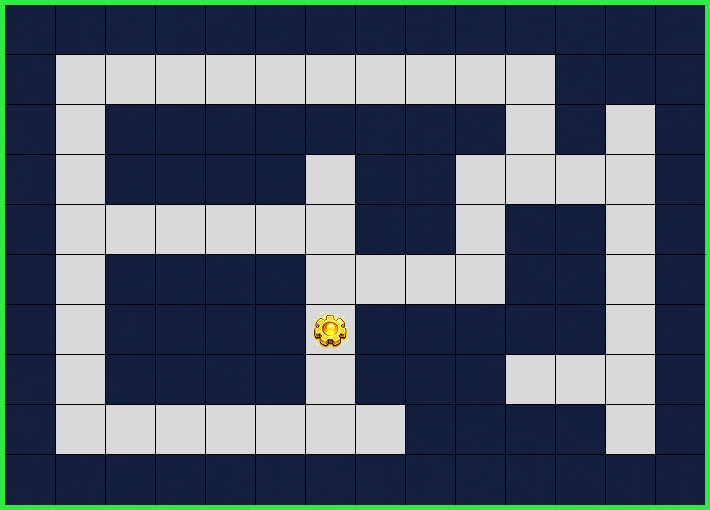
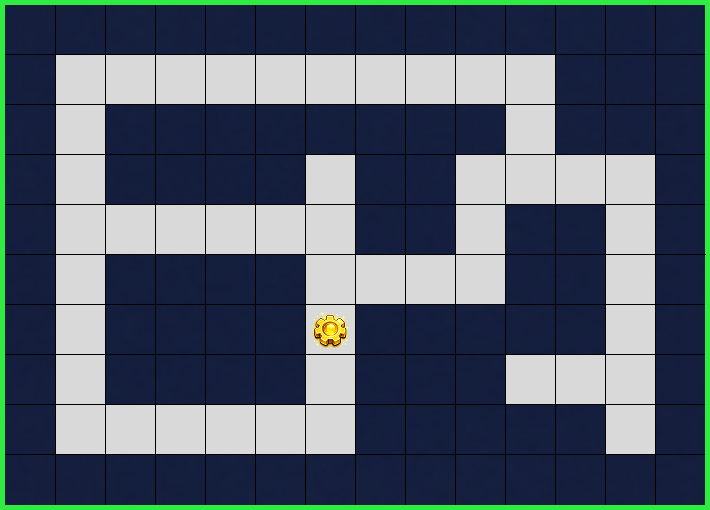
Tune L5-8 and L5-9 to allow tighter sensor-driven solutions
L5-8 ("The Long Way Around"):
- Wall off cells (11,1) and (6,7), which were dead-end branches
  guarded by black holes. With those traps gone, `while
  has_path_forward()` is safe on the col-11 ascent — students
  can compress the setup phase without walking into an invisible
  hazard. Only (5,2) and (9,6) remain as black holes.
- Updated python_5-8.png to match the new grid.

L5-9 ("Walk Around, Don't Shoot"):
- Move alien (8,0) → (9,0) and (10,1) → (10,2) so the off-path
  decoys still discourage detours but no longer sit on cells a
  generic right-hand sweep would land on first.

Changed region(s): [[0.8366, 0.2059, 0.9296, 0.3235], [0.4958, 0.7941, 0.5887, 0.9118]]

diff --git a/app/tools/code-lab/python/levels.ts b/app/tools/code-lab/python/levels.ts
@@ -2012,17 +2012,17 @@ if alien_in_sight() or not has_path_forward():
       hint: "Six aliens, two shots. The short paths are traps — find the LONG route that needs only two fires.",
       grid: [
         [0,0,0,0,0,0,0,0,0,0,1,1],
-        [0,1,1,1,1,1,1,1,1,0,1,0],
+        [0,1,1,1,1,1,1,1,1,0,1,1],
         [0,1,1,1,1,0,1,1,0,0,0,0],
         [0,0,0,0,0,0,1,1,0,1,1,0],
         [0,1,1,1,1,0,0,0,0,1,1,0],
         [0,1,1,1,1,0,1,1,1,1,1,0],
         [0,1,1,1,1,0,1,1,1,0,0,0],
-        [0,0,0,0,0,0,0,1,1,1,1,0],
+        [0,0,0,0,0,0,1,1,1,1,1,0],
       ],
       startX:11, startY:7, startDir:3, exitX:5, exitY:5,
       image: { src: "/python-maze/python_5-8.png", width: 710, height: 510, cellPx: 50, originX: 55, originY: 55 },
-      blackHoles: [{ x: 11, y: 1 }, { x: 6, y: 7 }, { x: 5, y: 2 }, { x: 9, y: 6 }],
+      blackHoles: [{ x: 5, y: 2 }, { x: 9, y: 6 }],
       aliens: [{ x: 8, y: 2 }, { x: 8, y: 4 }, { x: 6, y: 4 }, { x: 7, y: 0 }, { x: 2, y: 3 }, { x: 5, y: 6 }],
       plasmaSupply: 2,
       starterCode: `# The shortest-looking routes are traps. Find the long path that costs only 2 fires.
@@ -2045,7 +2045,7 @@ if alien_in_sight() or not has_path_forward():
       startX:0, startY:1, startDir:1, exitX:8, exitY:7,
       image: { src: "/python-maze/python_5-9.png", width: 710, height: 510, cellPx: 50, originX: 55, originY: 55 },
       blackHoles: [{ x: 3, y: 7 }, { x: 4, y: 4 }, { x: 8, y: 4 }],
-      aliens: [{ x: 3, y: 3 }, { x: 7, y: 3 }, { x: 8, y: 0 }, { x: 10, y: 1 }, { x: 11, y: 5 }, { x: 5, y: 5 }],
+      aliens: [{ x: 3, y: 3 }, { x: 7, y: 3 }, { x: 9, y: 0 }, { x: 10, y: 2 }, { x: 11, y: 5 }, { x: 5, y: 5 }],
       plasmaSupply: 4,
       starterCode: `# Some aliens are on the path. Some aren't. Spot the difference before you code.
 